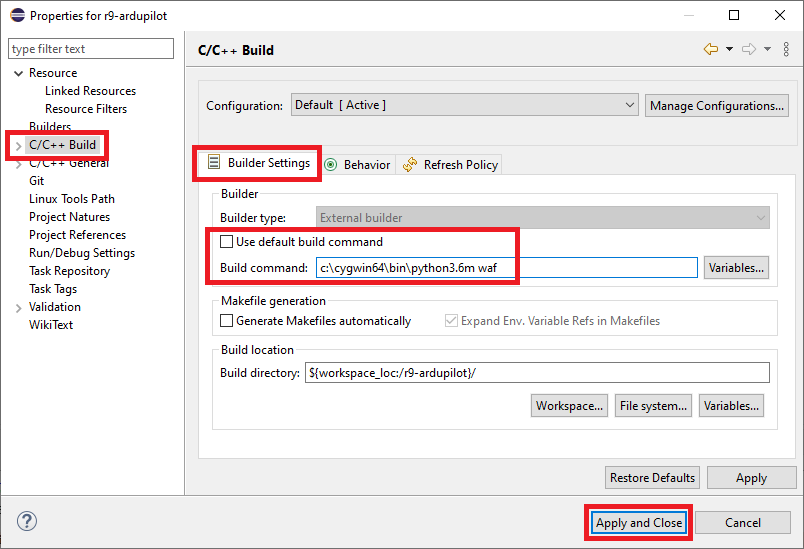
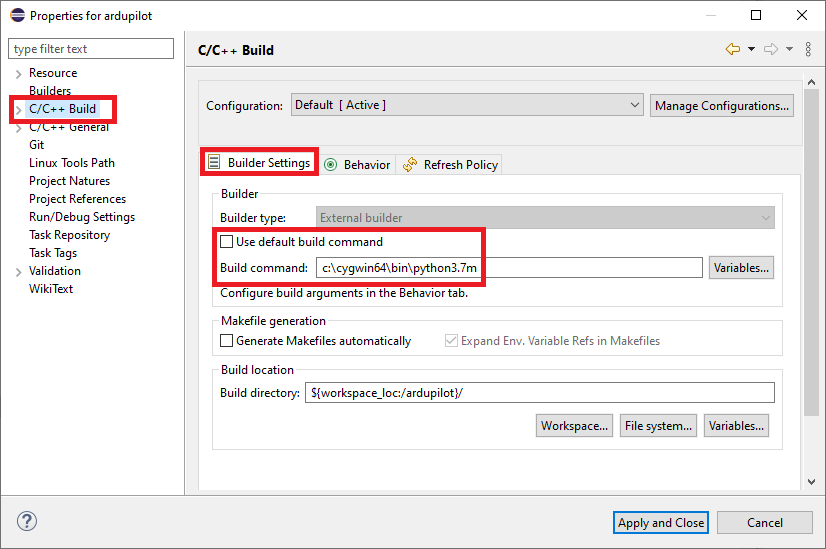
Dev: update Eclipse install instructions to python 3.7

diff --git a/dev/source/docs/building-setup-windows-eclipse.rst b/dev/source/docs/building-setup-windows-eclipse.rst
@@ -41,7 +41,7 @@ Once Eclipse has been started import ArduPilot by doing the following:
     :width: 450px
 
 - In the Project Explorer tab on the top right, right-mouse-button-click on the "ardupilot" folder and select "Properties"
-- When the "Properties for ardupilot" window appears, under "C/C++ Build", uncheck "Use default build command" and enter ``c:\cygwin64\bin\python3.6m waf`` into the "Build command" field as shown below
+- When the "Properties for ardupilot" window appears, under "C/C++ Build", uncheck "Use default build command" and enter ``c:\cygwin64\bin\python3.7m waf`` into the "Build command" field as shown below
 
 .. image:: ../images/eclipse-install3.png
     :target: ../_images/eclipse-install3.png
